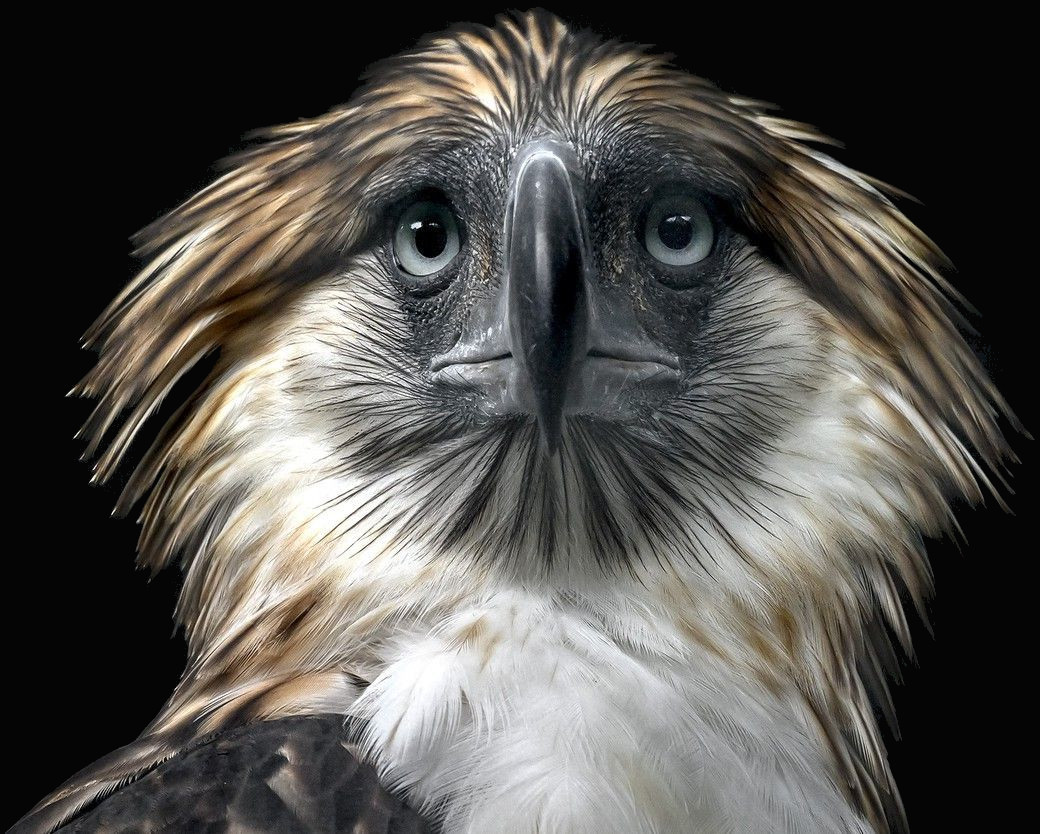
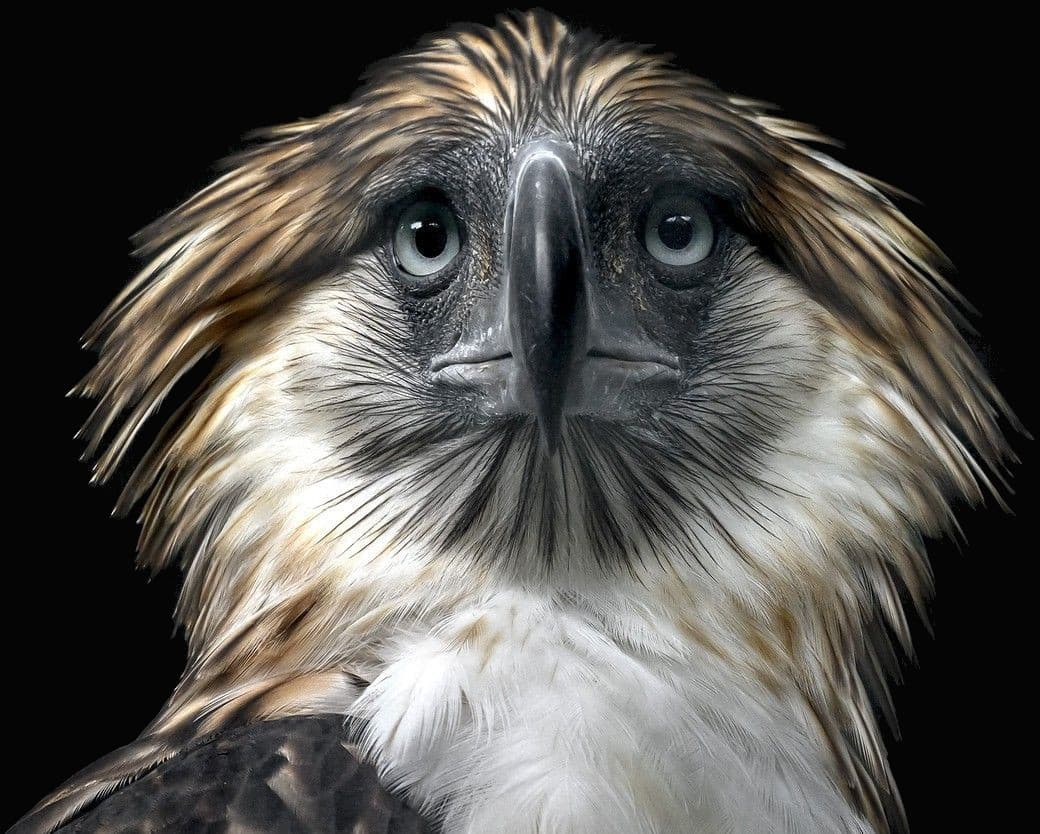
Shrunk img size

diff --git a/styles/style.css b/styles/style.css
@@ -110,10 +110,10 @@ footer {
     margin-top: 2.5rem;
 }
 
-.fifth-container img {
+.fifth-container picture img {
     width: 100%;
     padding-top: 2rem;
-    margin-bottom: -2rem;
+    margin-bottom: -3rem;
 }
 
 /*TEXT STYLES*/
@@ -273,7 +273,7 @@ cite {
         margin-bottom: -8rem;
     }
 
-    .fifth-container img {
+    .fifth-container picture img {
         width: 80%;
     }
 }
@@ -332,11 +332,14 @@ cite {
     .fifth-container {
         grid-template-columns: 1fr 1fr;
     }
+    .fifth-container picture {
+        position: relative;
+    }
 
-    .fifth-container img {
-        align-self: end;
+    .fifth-container picture img {
         width: 100%;
-        margin-bottom: -5rem;
+        position: absolute;
+        transform: translate(0, 15rem);
     }
 
     .sources {
@@ -363,6 +366,18 @@ cite {
         margin-bottom: -15rem;
     }
 
+    .fifth-container {
+        height: 40rem;
+    }
+
+    .fifth-container picture img {
+        transform: translate(0, 40%);
+    }
+
+    blockquote p {
+        font-size: 1.5rem;
+    }
+
     .facts-content {
         grid-column: 2 / 3;
         align-self: start;
@@ -373,8 +388,20 @@ cite {
 @media (min-width: 81em) {
     .hero-section {
         padding: 8rem 8rem 0 8rem;
+        justify-content: center;
     }
+
     .hero-image {
-        right: 10rem;
+        right: 20rem;
+    }
+
+    .second-container,
+    .fifth-container {
+        padding-left: 15rem;
+        padding-right: 15rem;
+    }
+
+    .fifth-container picture img {
+        transform: translate(0, 10rem);
     }
 }

diff --git a/index.html b/index.html
@@ -167,10 +167,15 @@
                     </p>
                     <br />
                 </div>
-                <img
-                    src="img/eagle-look.png"
-                    alt="The eagle is staring at you"
-                />
+                <picture>
+                    <source srcset="img/eagle-look.webp" type="image/webp" />
+                    <source srcset="img/eagle-look.png" type="image/png" />
+
+                    <img
+                        src="img/eagle-look.webp"
+                        alt="The eagle is staring at you"
+                    />
+                </picture>
             </section>
 
             <!--6th row-->
